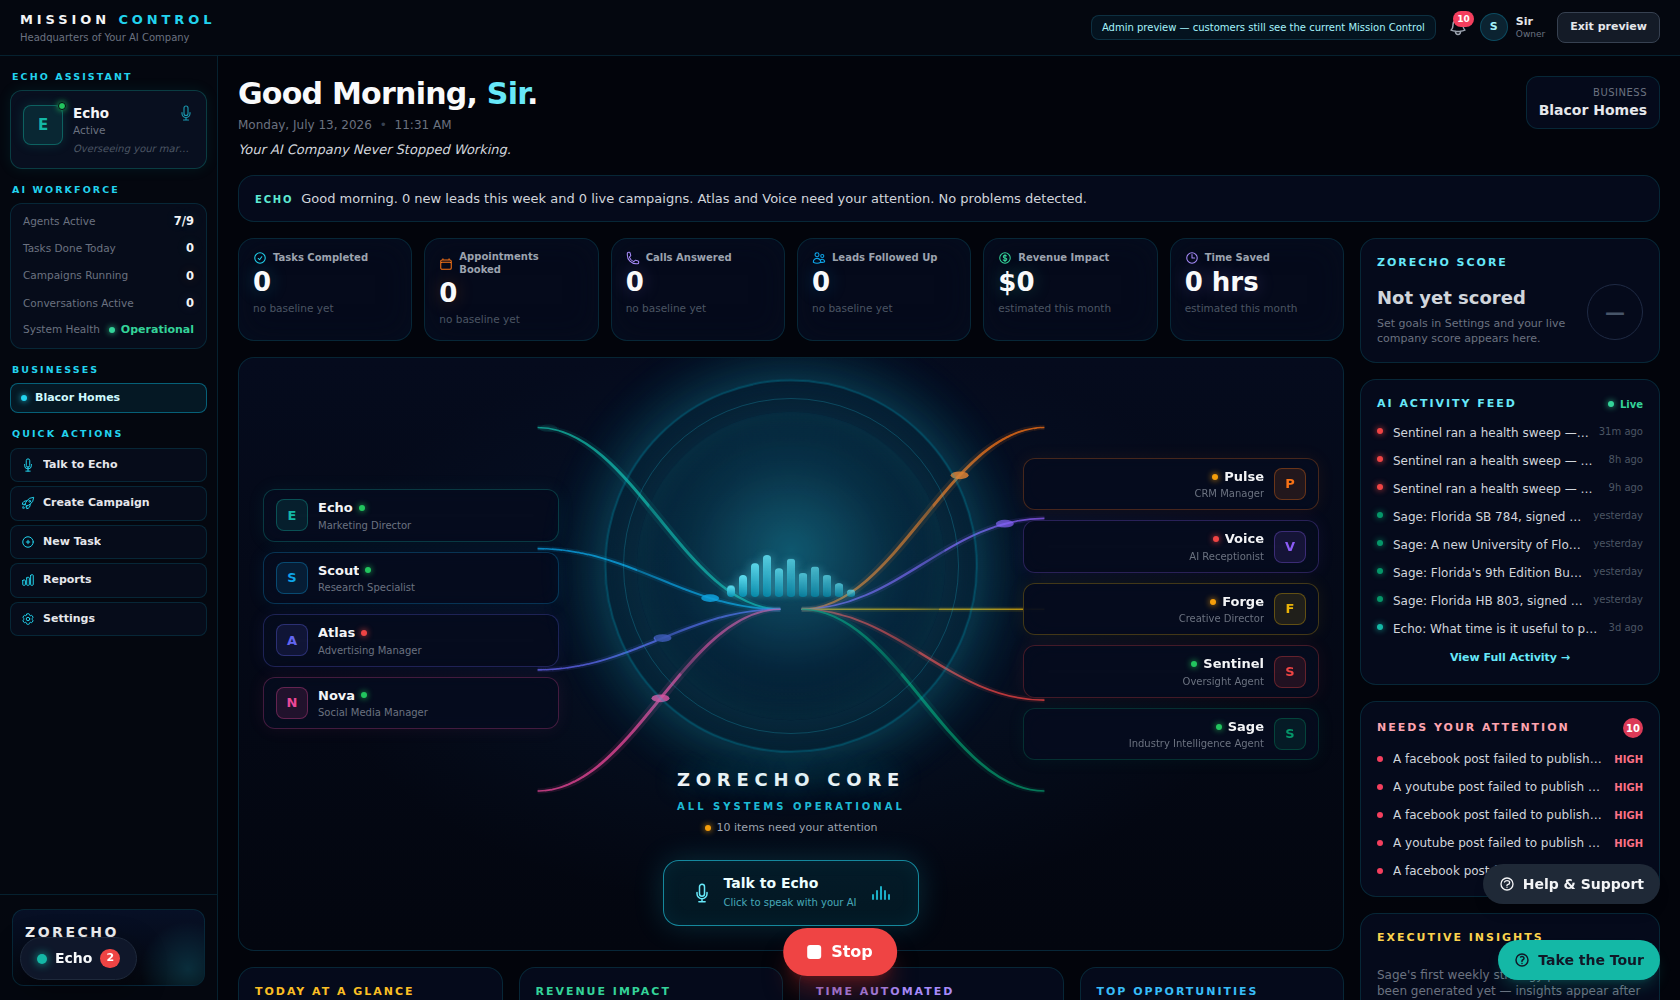
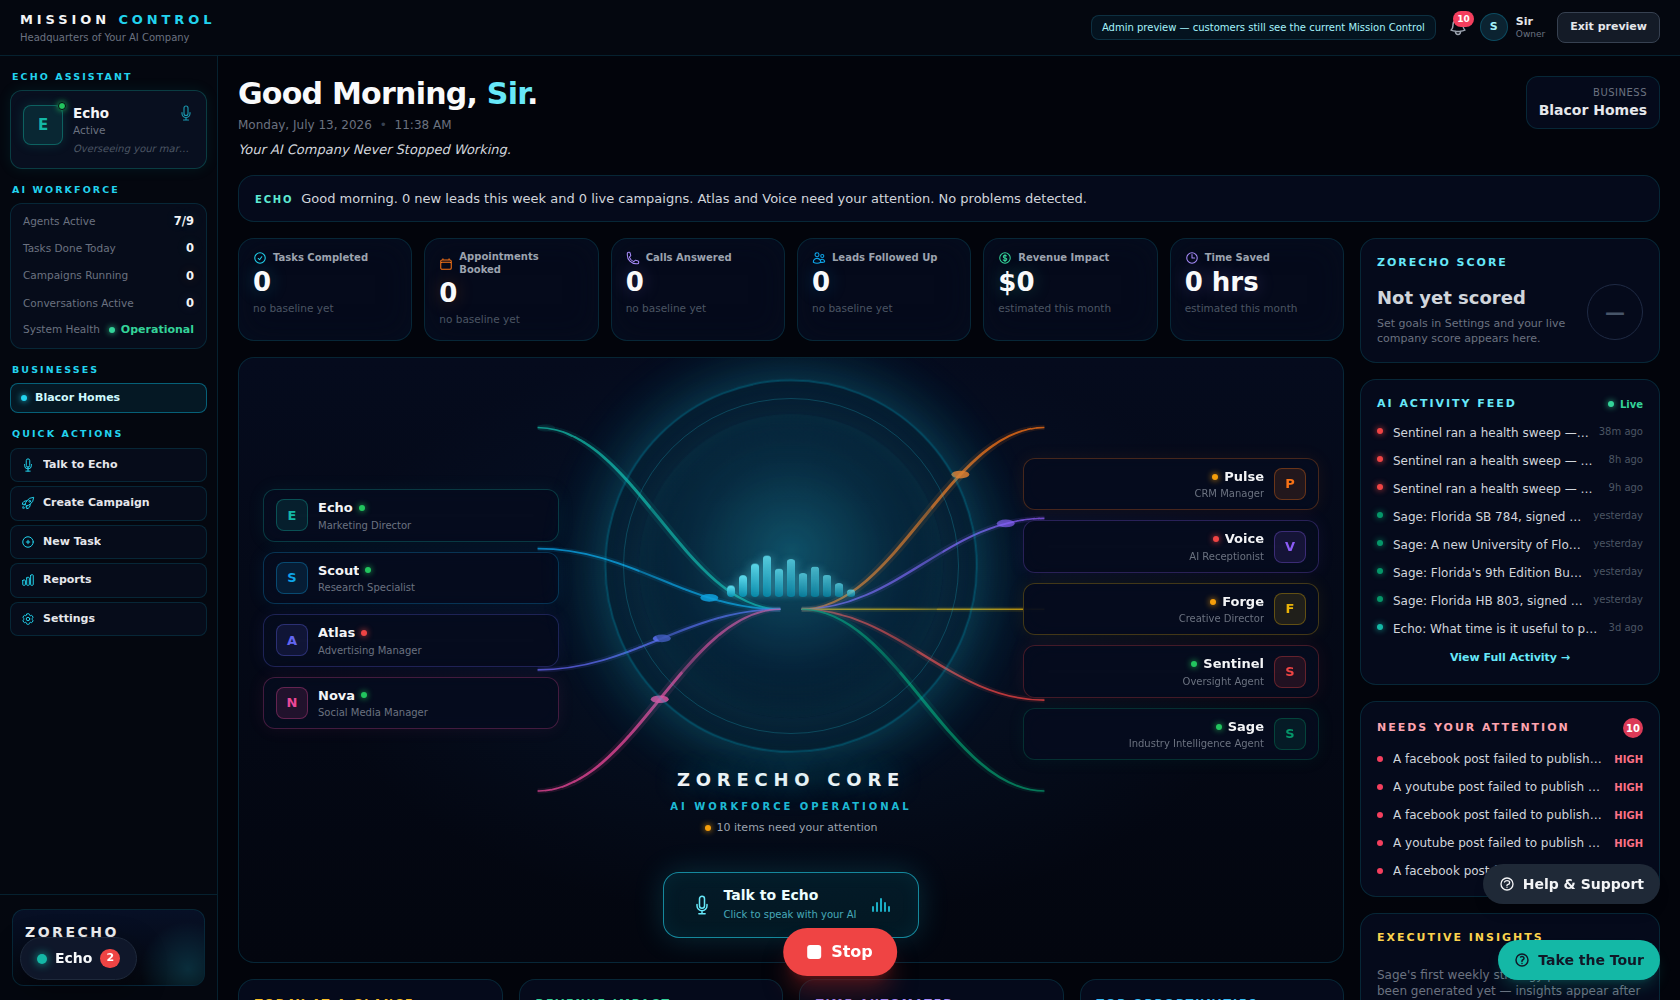
Mission Control V2 Core final "bring to life" polish (Pass 4)
- Idle label now reads "AI Workforce Operational"; Talk to Echo button moved lower (mt-9)
- Idle breathing sped up to 3.5s for a more alive resting state
- Listening: waveform bars animate faster (1.4s)
- Thinking: waveform pauses and dims while particles orbit
- Speaking: new center light-pulse emitter (.mcv2-core-emit, rendered only while speaking) + connector lines pulse via mcv2linespeak
- All new selectors covered in the prefers-reduced-motion block (verified by architect review)
- 2 new CoreHero tests (emitter present only while speaking); 344/344 client tests pass
- sw.js cache bumped v79 -> v80; client rebuilt (bundle index-CRtzPRiE.js) and workflow restarted

diff --git a/EchoAI/client/src/missioncontrol/MissionControlV2.jsx b/EchoAI/client/src/missioncontrol/MissionControlV2.jsx
@@ -245,12 +245,16 @@ export default function MissionControlV2({
     >
       <style>{`
         .mcv2 .mcv2-core-bar { animation: mcv2bar 2.6s ease-in-out infinite; transform-origin: bottom; transition: filter .7s ease; }
-        .mcv2 .mcv2-core { animation: mcv2breathe 5s ease-in-out infinite; transition: filter .7s ease; }
+        .mcv2 .mcv2-core { animation: mcv2breathe 3.5s ease-in-out infinite; transition: filter .7s ease; }
         .mcv2 .mcv2-core-ring { animation: mcv2ringbreathe 7s ease-in-out infinite; transition: transform .6s ease; }
         .mcv2 .mcv2-core-ring-slow { animation: mcv2ring 6s ease-in-out 1.2s infinite; }
         .mcv2 .mcv2-orbit { animation: mcv2orbit 3.2s linear infinite; }
-        /* Listening — the outer ring expands slightly */
+        /* Listening — the outer ring expands slightly, waveform gets more active,
+           and the sidebar mic glows (handled in ExecutiveSidebar). */
         .mcv2 .mcv2-listening .mcv2-core-ring { animation: mcv2ringlisten 2.4s ease-in-out infinite; }
+        .mcv2 .mcv2-listening .mcv2-core-bar { animation-duration: 1.4s; }
+        /* Thinking — the waveform rests while the particles orbit */
+        .mcv2 .mcv2-thinking .mcv2-core-bar { animation-play-state: paused; opacity: .45; }
         /* Speaking — the whole core comes alive: faster/fuller waveform, brighter
            glow, pulsing rings. The .7s filter transitions above let everything
            settle back down smoothly when Echo stops. */
@@ -258,6 +262,8 @@ export default function MissionControlV2({
         .mcv2 .mcv2-speaking .mcv2-core { animation-duration: 1.8s; filter: brightness(1.35); }
         .mcv2 .mcv2-speaking .mcv2-core-ring { animation: mcv2ringspeak 1.6s ease-in-out infinite; }
         .mcv2 .mcv2-speaking .mcv2-core-ring-slow { animation: mcv2ringspeak 1.6s ease-in-out .4s infinite; }
+        .mcv2 .mcv2-speaking .mcv2-line { animation: mcv2linespeak 1.6s ease-in-out infinite; }
+        .mcv2 .mcv2-core-emit { animation: mcv2emit 1.8s ease-out infinite; opacity: 0; }
         @keyframes mcv2bar { 0%,100% { transform: scaleY(0.55); opacity:.7 } 50% { transform: scaleY(1); opacity:1 } }
         @keyframes mcv2ring { 0%,100% { opacity:.5 } 50% { opacity:.9 } }
         @keyframes mcv2ringlisten { 0%,100% { opacity:.75; transform: scale(1.05) } 50% { opacity:1; transform: scale(1.09) } }
@@ -266,12 +272,15 @@ export default function MissionControlV2({
         @keyframes mcv2ringbright { 0%,100% { opacity:.7 } 50% { opacity:1 } }
         @keyframes mcv2barspeak { 0%,100% { transform: scaleY(0.35); opacity:.75 } 50% { transform: scaleY(1.12); opacity:1 } }
         @keyframes mcv2ringspeak { 0%,100% { opacity:.7; transform: scale(1) } 50% { opacity:1; transform: scale(1.03) } }
+        @keyframes mcv2linespeak { 0%,100% { opacity:.55; stroke-width:.35 } 50% { opacity:1; stroke-width:.55 } }
+        @keyframes mcv2emit { 0% { opacity:.55; transform: scale(.92) } 100% { opacity:0; transform: scale(1.25) } }
         @keyframes mcv2orbit { from { transform: rotate(0deg) } to { transform: rotate(360deg) } }
         @media (prefers-reduced-motion: reduce) {
           .mcv2 .mcv2-core-bar, .mcv2 .mcv2-core, .mcv2 .mcv2-core-ring, .mcv2 .mcv2-core-ring-slow, .mcv2 .mcv2-orbit,
           .mcv2 .mcv2-speaking .mcv2-core-bar, .mcv2 .mcv2-speaking .mcv2-core, .mcv2 .mcv2-speaking .mcv2-core-ring, .mcv2 .mcv2-speaking .mcv2-core-ring-slow,
-          .mcv2 .mcv2-listening .mcv2-core-ring { animation: none; }
-          .mcv2 .mcv2-line-pulse { display: none; }
+          .mcv2 .mcv2-speaking .mcv2-line, .mcv2 .mcv2-core-emit,
+          .mcv2 .mcv2-listening .mcv2-core-ring, .mcv2 .mcv2-listening .mcv2-core-bar { animation: none; }
+          .mcv2 .mcv2-line-pulse, .mcv2 .mcv2-core-emit { display: none; }
         }
       `}</style>
 

diff --git a/EchoAI/client/src/missioncontrol/CoreHero.jsx b/EchoAI/client/src/missioncontrol/CoreHero.jsx
@@ -73,7 +73,7 @@ function Connectors({ left, right }) {
       {paths.map((p, idx) => (
         <g key={p.key}>
           <path d={p.d} fill="none" stroke={p.color} strokeWidth="1.1" opacity="0.12" />
-          <path d={p.d} fill="none" stroke={p.color} strokeWidth="0.35" opacity="0.75" />
+          <path d={p.d} fill="none" stroke={p.color} strokeWidth="0.35" opacity="0.75" className="mcv2-line" />
           {/* Traveling light pulse — a subtle spark flowing along the line
               toward the core, staggered per line so they never sync up. */}
           <circle r="0.85" fill={p.color} opacity="0" className="mcv2-line-pulse">
@@ -150,6 +150,13 @@ export default function CoreHero({ agents, onOpenDepartment, onTalkToEcho, statu
                   ))}
                 </div>
               )}
+              {/* Speaking state — a subtle light pulse emitted from the center */}
+              {coreState === "speaking" && (
+                <div
+                  className="mcv2-core-emit pointer-events-none absolute inset-10 rounded-full border border-cyan-300/50"
+                  aria-hidden="true"
+                />
+              )}
               <div
                 className="mcv2-core absolute inset-8 rounded-full"
                 style={{
@@ -182,7 +189,7 @@ export default function CoreHero({ agents, onOpenDepartment, onTalkToEcho, statu
                     ? "Echo Thinking"
                     : coreState === "listening"
                       ? "Echo Listening"
-                      : "All Systems Operational"}
+                      : "AI Workforce Operational"}
               </div>
               <div className="mt-1.5 flex items-center justify-center gap-1.5 text-[11px] text-gray-400">
                 <span
@@ -204,7 +211,7 @@ export default function CoreHero({ agents, onOpenDepartment, onTalkToEcho, statu
           </div>
         </div>
 
-        <div className="mt-6 flex justify-center">
+        <div className="mt-9 flex justify-center">
           <button
             onClick={onTalkToEcho}
             className="flex items-center gap-3 rounded-2xl border border-cyan-400/60 bg-cyan-500/10 px-7 py-3 text-sm font-semibold text-cyan-50 transition-colors hover:bg-cyan-500/20"

diff --git a/EchoAI/client/src/missioncontrol/CoreHero.state.test.jsx b/EchoAI/client/src/missioncontrol/CoreHero.state.test.jsx
@@ -35,7 +35,7 @@ describe("CoreHero voice-state mapping", () => {
     mockConv.current = null;
     renderHero();
     expect(heroRoot().className).toContain("mcv2-idle");
-    expect(screen.getByText("All Systems Operational")).toBeTruthy();
+    expect(screen.getByText("AI Workforce Operational")).toBeTruthy();
   });
 
   it("passive → idle", () => {
@@ -59,12 +59,20 @@ describe("CoreHero voice-state mapping", () => {
     expect(container.querySelector(".mcv2-orbit")).toBeTruthy();
   });
 
-  it("speaking → speaking", () => {
+  it("speaking → speaking, with the center light-pulse emitter", () => {
     mockConv.current = { convState: "speaking" };
     const { container } = renderHero();
     expect(heroRoot().className).toContain("mcv2-speaking");
     expect(screen.getByText("Echo Speaking")).toBeTruthy();
+    // The subtle light pulse emits from the center only while speaking.
+    expect(container.querySelector(".mcv2-core-emit")).toBeTruthy();
     // No thinking particles while speaking.
     expect(container.querySelector(".mcv2-orbit")).toBeFalsy();
+  });
+
+  it("the light-pulse emitter is absent outside the speaking state", () => {
+    mockConv.current = { convState: "active" };
+    const { container } = renderHero();
+    expect(container.querySelector(".mcv2-core-emit")).toBeFalsy();
   });
 });

diff --git a/EchoAI/client/public/sw.js b/EchoAI/client/public/sw.js
@@ -15,7 +15,7 @@
 // index.html + hashed JS/CSS. Without a bump, a returning PWA user keeps being
 // served the old precached shell (old bundle) forever, regardless of HTTP
 // Cache-Control headers — the service worker answers from its own cache first.
-const CACHE = "echoai-shell-v79";
+const CACHE = "echoai-shell-v80";
 
 // The app shell. Hashed Vite asset filenames are cached at runtime (see fetch
 // handler), so we only need the entry points here.